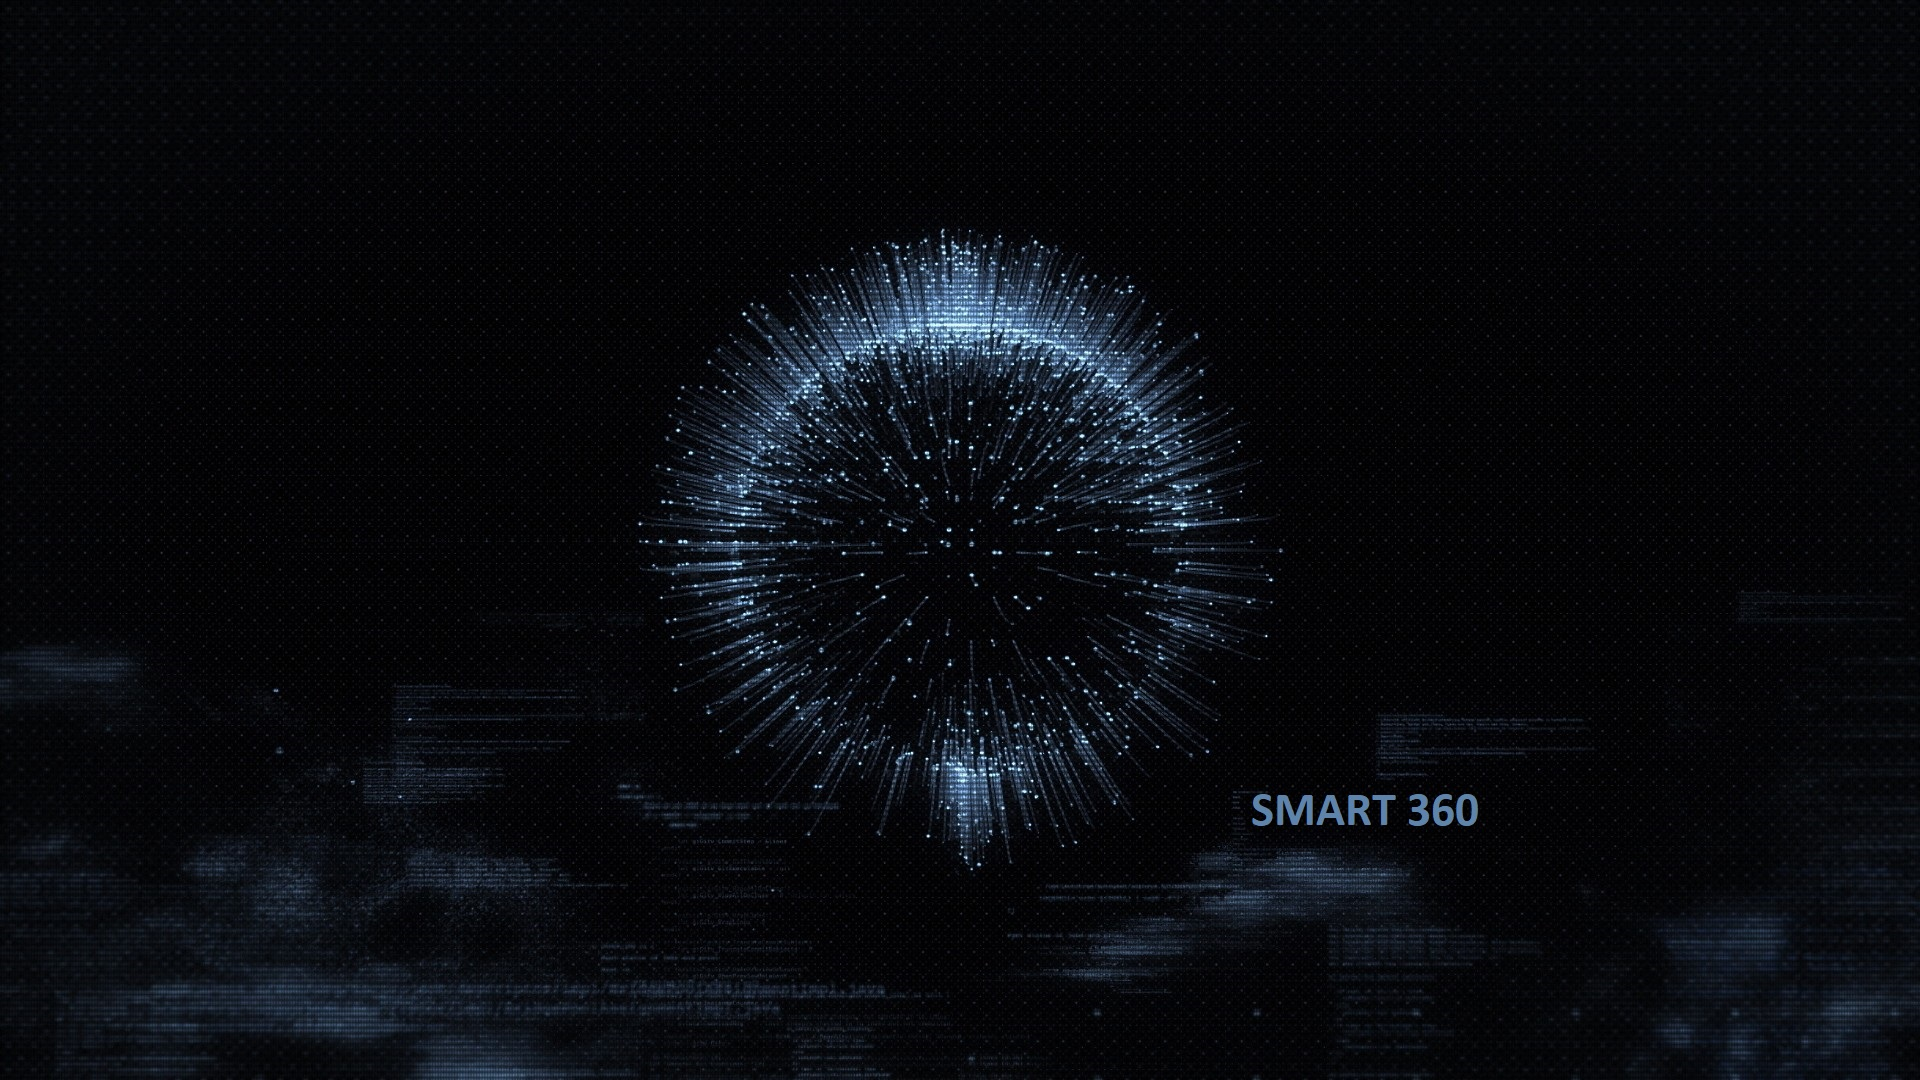
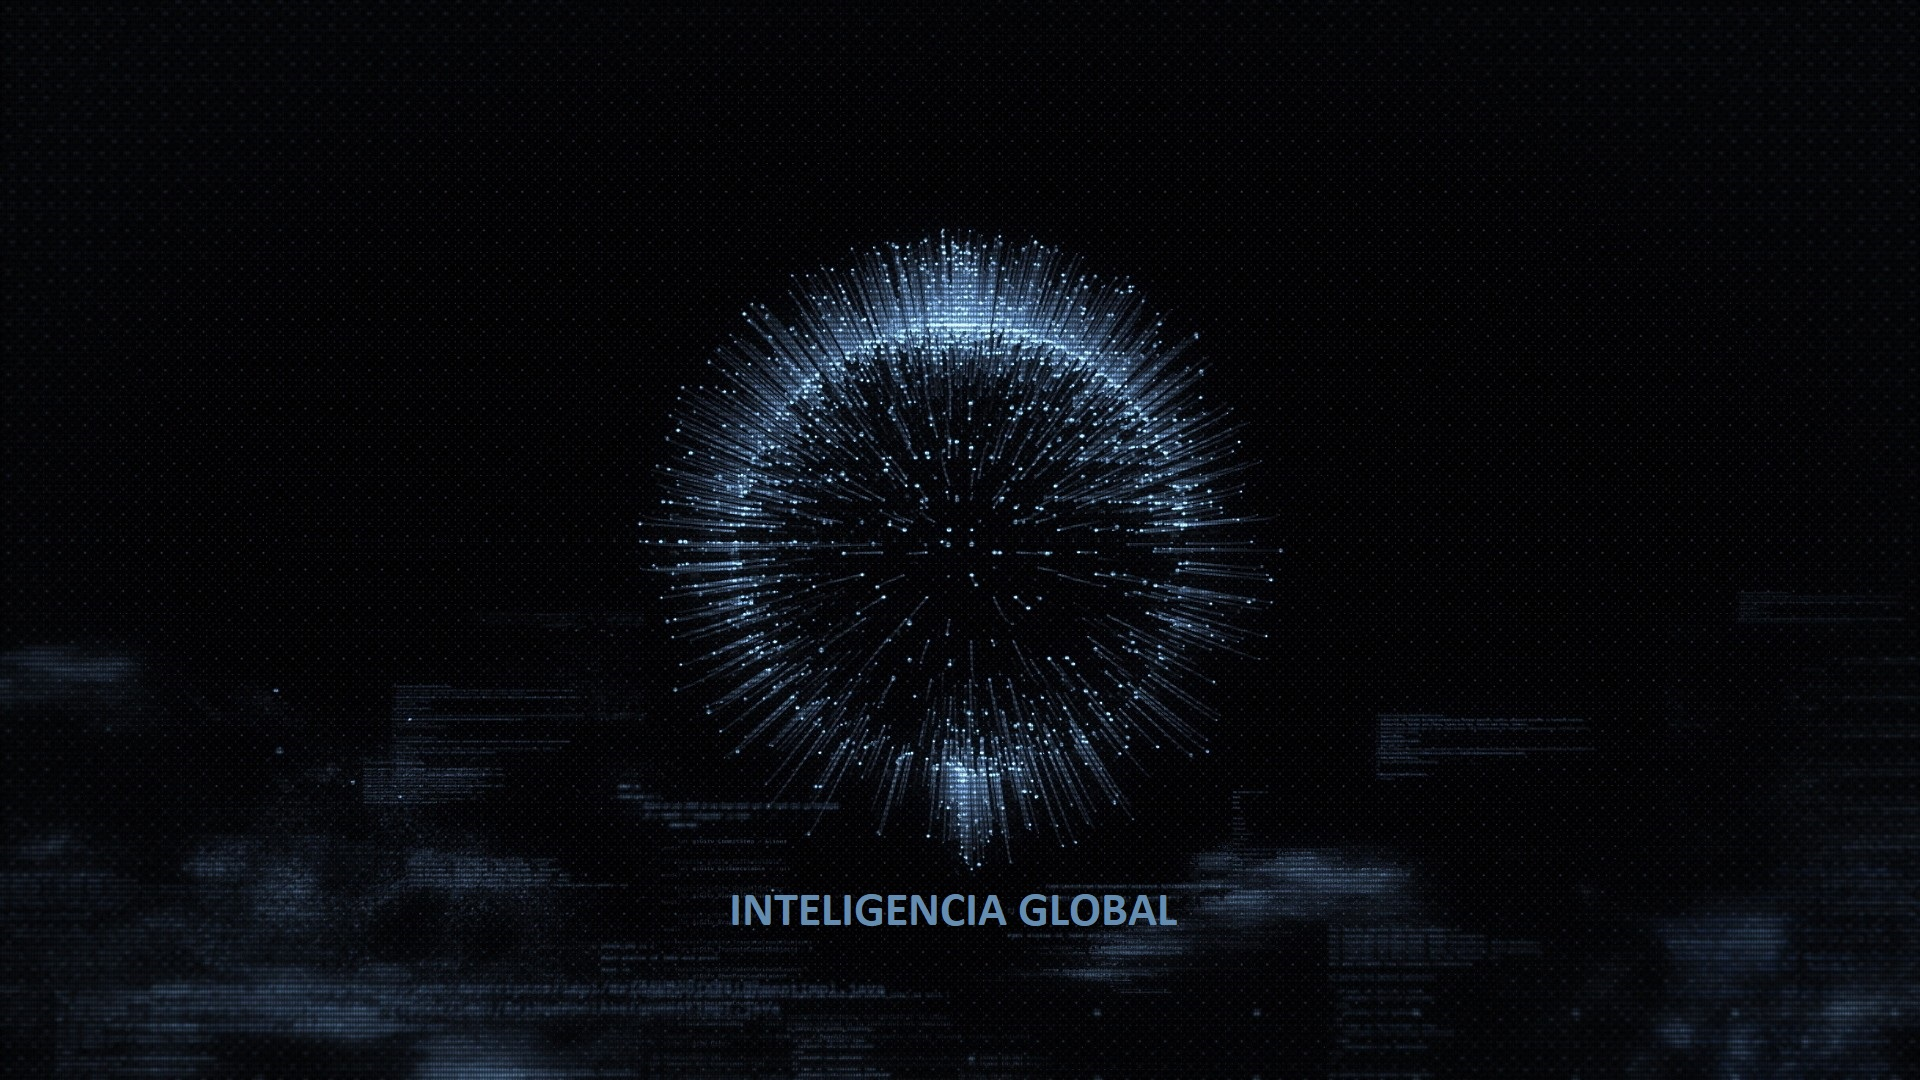
Agregado de info

Changed region(s): [[0.375, 0.825, 0.625, 0.8556], [0.6562, 0.7333, 0.7812, 0.7639]]

diff --git a/css/index.css b/css/index.css
@@ -5,7 +5,7 @@ body, html {
 	color: #777;
   }
   
-  .bgimg-1, .bgimg-2, .bgimg-3 {
+  .bgimg-1, .bgimg-2, .bgimg-3, .bgimg-4 {
 	position: relative;
 	opacity: 0.65;
 	background-attachment: fixed;
@@ -32,11 +32,11 @@ body, html {
 	min-height: 400px;
 	}
 	
-	.bgimg-4 {	
+  .bgimg-4 {	
 		background-image: url("../img/back3.png");
-		opacity: 0.9;
-		min-height: 100px;
-		}
+	opacity: 0.7;
+	min-height: 400px;
+	}
   
   .caption {
 	position: absolute;
@@ -92,6 +92,11 @@ body, html {
 	height: 250px;
  }
  
+#imgMail{
+	width: 25px;
+	height: 25px;
+ }
+
  #sistemasImg{
 	width: 200px;
 	height: 200px;
@@ -105,7 +110,7 @@ body, html {
  #cont{	
 	background-image: url("../img/back3.png");
 	opacity: 0.9;
-	min-height: 100px;
+	min-height: 400px;
 }
 
 /* SECCIÓN SERVICIOS */

diff --git a/index.php b/index.php
@@ -13,7 +13,7 @@
 
 <div class="bgimg-1">
   <div class="caption">
-    <span class="border">INTELIGENCIA GLOBAL</span>
+    <span class="border">SMART 360</span>
   </div>
 </div>
 
@@ -21,7 +21,7 @@
 <div style="color:#ddd;background-color:#282E34;text-align:center;padding:50px 80px;text-align: justify;">
   <h3 style="text-align:center;color: #f7f7f7;">¿Quiénes Somos?</h3>
   <p>Somos un grupo de estudiantes avanzados de la carrera de Ingeniería Informatica trabajando juntos, amantes de nuestro trabajo y plasmamos esa pasión en cada desarrollo. </p>
-  <p>Para nosotros, cada proyecto es un desafío y un compromiso.Nos intereza contribuir en los proyectos y sentirnos partes de los mismos. Es por esa razón, que la transparencia y la honestidad son los 
+  <p>Para nosotros, cada proyecto es un desafío y un compromiso. Nos interesa contribuir en los proyectos y sentirnos partes de los mismos. Es por esa razón, que la transparencia y la honestidad son los 
   principios fundamentales de nuestras relaciones comerciales.
   
   </p>
@@ -35,7 +35,7 @@
 
 <div class="container-fluid" style="position:relative;">
   <div class="row" id="contServicios">
-    <div class="col-md-12" id="tituloServicios">
+    <div class="col-md-12" id="tituloServicios" style="text-align: justify;">
     <p>Brindamos servicio personalizado, desarrollando la solución que mejor satisfaga las necesidades de cada proyecto.
   Ofrecemos servicios completos de Diseño de sitios Web, actualizacion y mantenimiento de sistemas informaticos y 
   desarrollo de sistemas. Nos caracterizamos por la creación de aplicaciones y sitios web auto administrables con sistemas de gestión veloces, intuitivos y fáciles de utilizar.</p>
@@ -78,13 +78,30 @@
   </div>
 </div>
 
+<div class="bgimg-2">
+  <div class="caption">
+    <span class="border" style="background-color:transparent;font-size:25px;color: #f7f7f7;">CONTACTANOS</span>
+  </div>
+</div>
+
+<div class="container-fluid" style="position:relative;">
+  <div class="row" id="contServicios">
+    <div class="col-md-12" id="tituloServicios" style="text-align: justify;">
+    <p>Podés contactartactarnos por mail o encontrarnos en las redes sociales</p>
+    <a href="mailto:contacto@smart360.com.ar"><img src="img/icono-email.png"  id="imgMail" ></a>
+    <a href="mailto:contacto@smart360.com.ar">contacto@smart360.com.ar</a>
+    </div>
+    <p>Para otras consultas, completá el siguiente formulario para comunicarte con nosotros y acercarnos tus mensajes.</p>
+  </div>
+  
+</div>
 
 <div id="cont" style="color:#ddd;background-color:transparent;text-align:center;padding:50px 80px;text-align: justify;">  
     <div  class="container-fluid">
       <div class="row">
         <div class="col-md-3"></div>
         <div class="col-md-6">
-          <h3 style="color: #f7f7f7;">Contacto:</h3>
+          
           <form action="" method="post" id="formulario">
             <div class="form-group">
               <label for="nombre">Nombre: </label>
@@ -113,6 +130,7 @@
     </div>
   </div>
 <!--</div>-->
+
 </body>
 </html>
 
